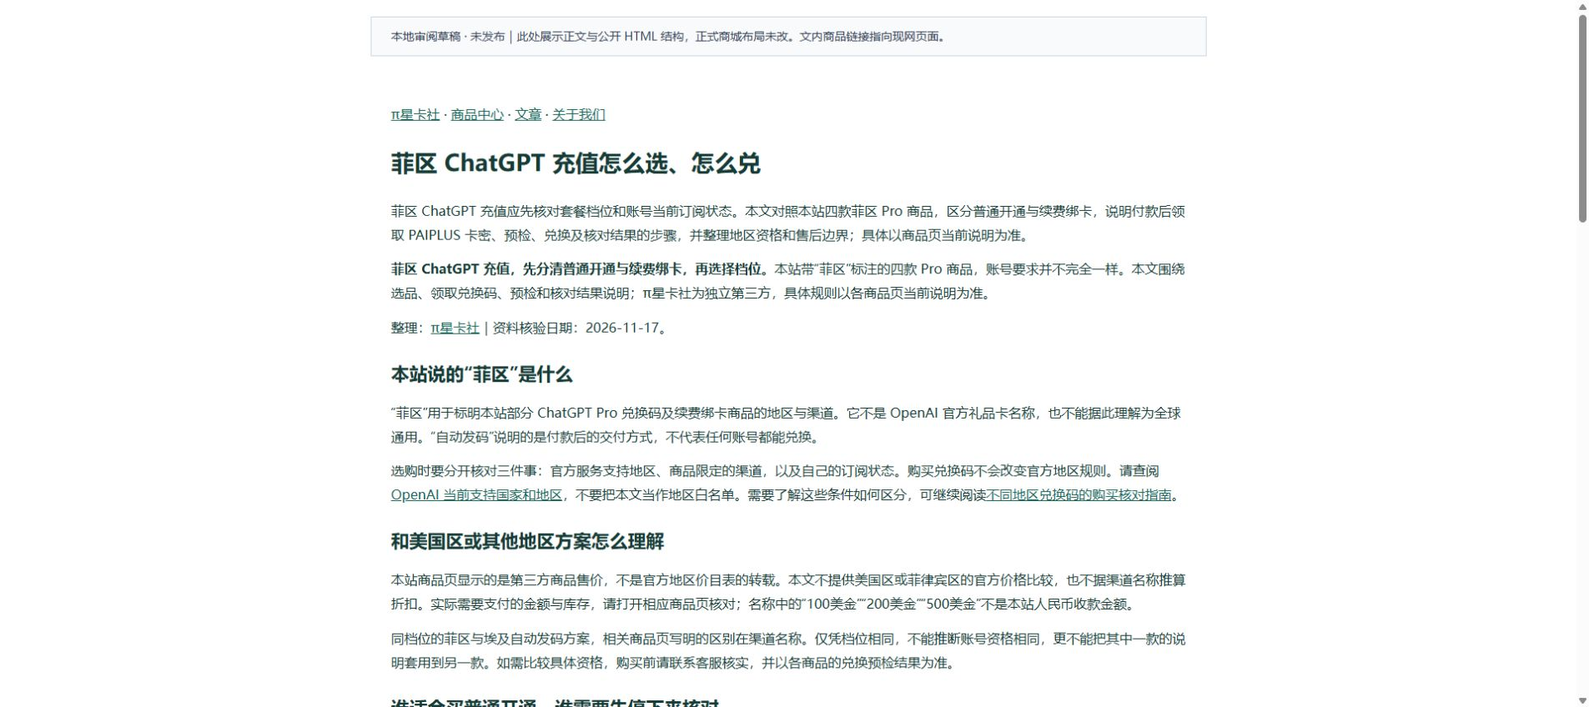
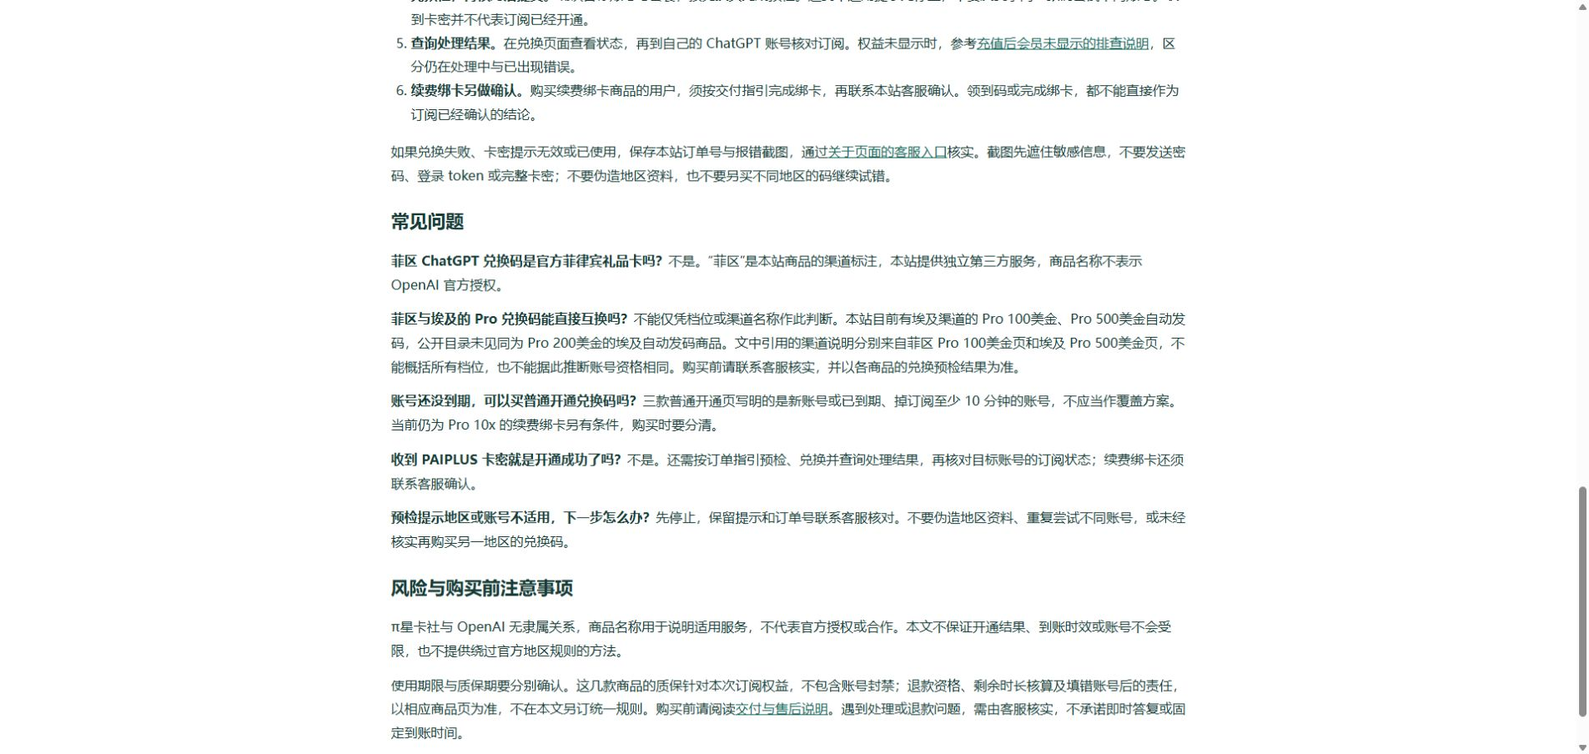
docs: 按审阅意见收窄菲区博客事实并更新验证记录

diff --git a/docs/catalog/blog-ph-chatgpt-20261117/preview.html b/docs/catalog/blog-ph-chatgpt-20261117/preview.html
@@ -24,7 +24,7 @@
 <meta content="菲区 ChatGPT 充值怎么选、怎么兑" data-public-page-seo="" name="twitter:image:alt"/>
 <script data-public-page-seo="" type="application/ld+json">{"@context":"https://schema.org","@type":"BlogPosting","description":"菲区 ChatGPT 充值应先核对套餐档位和账号当前订阅状态。本文对照本站四款菲区 Pro 商品，区分普通开通与续费绑卡，说明付款后领取 PAIPLUS 卡密、预检、兑换及核对结果的步骤，并整理地区资格和售后边界；具体以商品页当前说明为准。","headline":"菲区 ChatGPT 充值怎么选、怎么兑","inLanguage":"zh-CN","mainEntityOfPage":"https://www.qzweb.cloud/blog/chatgpt-ph-recharge-guide","publisher":{"@id":"https://www.qzweb.cloud/#organization"},"url":"https://www.qzweb.cloud/blog/chatgpt-ph-recharge-guide"}</script>
 <script data-public-page-seo="" type="application/ld+json">{"@context":"https://schema.org","@graph":[{"@id":"https://www.qzweb.cloud/#organization","@type":"Organization","contactPoint":{"@type":"ContactPoint","contactType":"customer support","url":"https://www.qzweb.cloud/about"},"name":"π星卡社","url":"https://www.qzweb.cloud/"},{"@id":"https://www.qzweb.cloud/#website","@type":"WebSite","name":"π星卡社","publisher":{"@id":"https://www.qzweb.cloud/#organization"},"url":"https://www.qzweb.cloud/"}]}</script>
-<script data-public-page-seo="" type="application/ld+json">{"@context":"https://schema.org","@graph":[{"@type":"BreadcrumbList","itemListElement":[{"@type":"ListItem","item":"https://www.qzweb.cloud/","name":"首页","position":1},{"@type":"ListItem","item":"https://www.qzweb.cloud/blog","name":"博客","position":2},{"@type":"ListItem","item":"https://www.qzweb.cloud/blog/chatgpt-ph-recharge-guide","name":"菲区 ChatGPT 充值怎么选、怎么兑","position":3}]},{"@id":"https://www.qzweb.cloud/blog/chatgpt-ph-recharge-guide#faq","@type":"FAQPage","mainEntity":[{"@type":"Question","acceptedAnswer":{"@type":"Answer","text":"不是。“菲区”是本站商品的渠道标注，本站提供独立第三方服务，商品名称不表示 OpenAI 官方授权。"},"name":"菲区 ChatGPT 兑换码是官方菲律宾礼品卡吗？"},{"@type":"Question","acceptedAnswer":{"@type":"Answer","text":"不能据档位名称推断通用。相关商品页说明渠道名称不同；账号资格需购买前联系客服核实，并分别以兑换预检结果为准。"},"name":"菲区与埃及的同档位 Pro 能直接互换吗？"},{"@type":"Question","acceptedAnswer":{"@type":"Answer","text":"三款普通开通页写明的是新账号或已到期、掉订阅至少 10 分钟的账号，不应当作覆盖方案。当前仍为 Pro 10x 的续费绑卡另有条件，购买时要分清。"},"name":"账号还没到期，可以买普通开通兑换码吗？"},{"@type":"Question","acceptedAnswer":{"@type":"Answer","text":"不是。还需按订单指引预检、兑换并查询处理结果，再核对目标账号的订阅状态；续费绑卡还须联系客服确认。"},"name":"收到 PAIPLUS 卡密就是开通成功了吗？"},{"@type":"Question","acceptedAnswer":{"@type":"Answer","text":"先停止，保留提示和订单号联系客服核对。不要伪造地区资料、重复尝试不同账号，或未经核实再购买另一地区的兑换码。"},"name":"预检提示地区或账号不适用，下一步怎么办？"}]}]}</script>
+<script data-public-page-seo="" type="application/ld+json">{"@context":"https://schema.org","@graph":[{"@type":"BreadcrumbList","itemListElement":[{"@type":"ListItem","item":"https://www.qzweb.cloud/","name":"首页","position":1},{"@type":"ListItem","item":"https://www.qzweb.cloud/blog","name":"博客","position":2},{"@type":"ListItem","item":"https://www.qzweb.cloud/blog/chatgpt-ph-recharge-guide","name":"菲区 ChatGPT 充值怎么选、怎么兑","position":3}]},{"@id":"https://www.qzweb.cloud/blog/chatgpt-ph-recharge-guide#faq","@type":"FAQPage","mainEntity":[{"@type":"Question","acceptedAnswer":{"@type":"Answer","text":"不是。“菲区”是本站商品的渠道标注，本站提供独立第三方服务，商品名称不表示 OpenAI 官方授权。"},"name":"菲区 ChatGPT 兑换码是官方菲律宾礼品卡吗？"},{"@type":"Question","acceptedAnswer":{"@type":"Answer","text":"不能仅凭档位或渠道名称作此判断。本站目前有埃及渠道的 Pro 100美金、Pro 500美金自动发码，公开目录未见同为 Pro 200美金的埃及自动发码商品。文中引用的渠道说明分别来自菲区 Pro 100美金页和埃及 Pro 500美金页，不能概括所有档位，也不能据此推断账号资格相同。购买前请联系客服核实，并以各商品的兑换预检结果为准。"},"name":"菲区与埃及的 Pro 兑换码能直接互换吗？"},{"@type":"Question","acceptedAnswer":{"@type":"Answer","text":"三款普通开通页写明的是新账号或已到期、掉订阅至少 10 分钟的账号，不应当作覆盖方案。当前仍为 Pro 10x 的续费绑卡另有条件，购买时要分清。"},"name":"账号还没到期，可以买普通开通兑换码吗？"},{"@type":"Question","acceptedAnswer":{"@type":"Answer","text":"不是。还需按订单指引预检、兑换并查询处理结果，再核对目标账号的订阅状态；续费绑卡还须联系客服确认。"},"name":"收到 PAIPLUS 卡密就是开通成功了吗？"},{"@type":"Question","acceptedAnswer":{"@type":"Answer","text":"先停止，保留提示和订单号联系客服核对。不要伪造地区资料、重复尝试不同账号，或未经核实再购买另一地区的兑换码。"},"name":"预检提示地区或账号不适用，下一步怎么办？"}]}]}</script>
 
 <style data-public-page-seo="">
 #public-document{max-width:960px;margin:32px auto;padding:24px;color:#173b36;background:#fff;font:16px/1.8 system-ui,sans-serif;overflow-wrap:anywhere}#public-document h1{font-size:28px;font-weight:700}#public-document h2{font-size:22px;font-weight:600;margin:1em 0 .5em}#public-document h3{font-size:18px;font-weight:600}#public-document a{color:#17675a;text-decoration:underline}#public-document p{margin:.8em 0}#public-document ul{list-style:disc;padding-left:24px}#public-document ol{list-style:decimal;padding-left:24px}#public-document img{max-width:100%;height:auto}#public-document .cover{max-height:240px;object-fit:contain}#public-document table{display:block;max-width:100%;overflow:auto;border-collapse:collapse}#public-document td,#public-document th{border:1px solid #bbb;padding:8px}#public-document dt{font-weight:600}#public-document dd{margin-bottom:8px}
@@ -34,17 +34,17 @@
 <nav aria-label="网站导航"><a href="/">π星卡社</a> · <a href="/products">商品中心</a> · <a href="/blog">文章</a> · <a href="/about">关于我们</a></nav>
 <article><h1>菲区 ChatGPT 充值怎么选、怎么兑</h1>
 <div class="summary">菲区 ChatGPT 充值应先核对套餐档位和账号当前订阅状态。本文对照本站四款菲区 Pro 商品，区分普通开通与续费绑卡，说明付款后领取 PAIPLUS 卡密、预检、兑换及核对结果的步骤，并整理地区资格和售后边界；具体以商品页当前说明为准。</div>
-<section aria-label="完整正文"><p><strong>菲区 ChatGPT 充值，先分清普通开通与续费绑卡，再选择档位。</strong>本站带“菲区”标注的四款 Pro 商品，账号要求并不完全一样。本文围绕选品、领取兑换码、预检和核对结果说明；π星卡社为独立第三方，具体规则以各商品页当前说明为准。</p>
+<section aria-label="完整正文"><p><strong>菲区 ChatGPT 充值要先分清：是普通开通，还是续费绑卡。</strong>本站带“菲区”标注的四款 Pro 商品，账号要求并不完全一样。π星卡社为独立第三方，具体规则以各商品页当前说明为准。</p>
 <p>整理：<a href="/about">π星卡社</a>｜资料核验日期：2026-11-17。</p>
 <h2>本站说的“菲区”是什么</h2>
 <p>“菲区”用于标明本站部分 ChatGPT Pro 兑换码及续费绑卡商品的地区与渠道。它不是 OpenAI 官方礼品卡名称，也不能据此理解为全球通用。“自动发码”说明的是付款后的交付方式，不代表任何账号都能兑换。</p>
 <p>选购时要分开核对三件事：官方服务支持地区、商品限定的渠道，以及自己的订阅状态。购买兑换码不会改变官方地区规则。请查阅<a href="https://help.openai.com/en/articles/7947663-chatgpt-supported-countries" rel="nofollow">OpenAI 当前支持国家和地区</a>，不要把本文当作地区白名单。需要了解这些条件如何区分，可继续阅读<a href="/blog/chatgpt-code-region-check">不同地区兑换码的购买核对指南</a>。</p>
 <h2>和美国区或其他地区方案怎么理解</h2>
 <p>本站商品页显示的是第三方商品售价，不是官方地区价目表的转载。本文不提供美国区或菲律宾区的官方价格比较，也不据渠道名称推算折扣。实际需要支付的金额与库存，请打开相应商品页核对；名称中的“100美金”“200美金”“500美金”不是本站人民币收款金额。</p>
-<p>同档位的菲区与埃及自动发码方案，相关商品页写明的区别在渠道名称。仅凭档位相同，不能推断账号资格相同，更不能把其中一款的说明套用到另一款。如需比较具体资格，购买前请联系客服核实，并以各商品的兑换预检结果为准。</p>
+<p>目前本站另有埃及渠道的<a href="/products/chatgpt-pro-100-egypt">Pro 100美金自动发码</a>和<a href="/products/chatgpt-pro-500-egypt">Pro 500美金自动发码</a>，没有见到同为 Pro 200美金的埃及自动发码商品。<a href="/products/chatgpt-pro-100-ph">菲区 Pro 100美金兑换码</a>页写明，同倍数的埃及方案区别在渠道名称；<a href="/products/chatgpt-pro-500-egypt">埃及 Pro 500美金兑换码</a>页写明，它与菲区 Pro 25x 的渠道名称不同。仅凭档位相近，不能推断账号资格相同，更不能把其中一款的说明套用到另一款，也不能按档位去一一配对。如需比较具体资格，购买前请联系客服核实，并以各商品的兑换预检结果为准。</p>
 <h2>谁适合买普通开通，谁需要先停下来核对</h2>
 <p>菲区 Pro 100、200、500 美金的普通开通页，共同写明适用于从未开通过会员的新账号，或原有订阅已到期、掉订阅至少 10 分钟的账号。满足文字描述后仍需预检，不能只根据自己估计的时间判定一定适用。这三款的订阅期限为一个月，具体起止以实际开通记录为准。</p>
-<p>如果当前套餐尚未到期，不要把普通自动发码理解成支持覆盖。应先看<a href="/blog/chatgpt-plus-renewal-rules">到期续费与未到期覆盖的区别</a>，再到分类页核对人工方案的适用条件；人工方案的规则不能移用到自动发码商品。</p>
+<p>如果当前套餐尚未到期，不要把普通自动发码理解成支持覆盖。应先看<a href="/blog/chatgpt-plus-renewal-rules">到期续费与未到期覆盖的区别</a>，再到<a href="/categories/gpt-recharge">ChatGPT 充值方案</a>核对是否应改选人工商品；人工方案的规则不能移用到自动发码商品。</p>
 <p>另有一款 Pro 200 美金“续费绑卡”：对象是<strong>当前仍为 Pro 10x 的自有账号</strong>。它不能套用普通开通的“新账号或已到期”条件；交付后需按指引绑卡，并联系客服确认。其他档位、已到期或状态不清楚的账号，购买前先咨询。</p>
 <h2>怎么选：四款菲区 Pro 与 Plus 的区别</h2>
 <p>可先打开<a href="/categories/gpt-recharge">ChatGPT 充值方案与购买须知</a>，按目标套餐和当前账号状态筛选，再核对商品名称。四款菲区商品可按下面的用途区分：</p>
@@ -55,10 +55,10 @@
 <tr><td><a href="/products/chatgpt-pro-200-renew-ph">菲区 Pro 200美金续费绑卡</a></td><td>针对当前仍为 Pro 10x 的账号；绑卡后联系客服确认。</td></tr>
 </tbody></table>
 <p>5x、10x、25x 是商品供货说明中的档位名称，不能仅凭数字推断官方功能或额度，也不能将 25x 换算成本站承诺的固定使用次数。需要了解具体权益差别，请在购买前联系客服核实。</p>
-<p>如果目标是 Plus，请另看<a href="/blog/chatgpt-plus-code-guide">ChatGPT Plus 兑换码使用说明</a>。本站 Plus 兑换码没有标注上述地区，不应混入这四款菲区 Pro 的选品表，也不能用 Pro 档位替代 Plus 套餐。</p>
+<p>如果目标是 Plus，请另看<a href="/products/chatgpt-plus-code">ChatGPT Plus 兑换码</a>及<a href="/blog/chatgpt-plus-code-guide">兑换码使用说明</a>。本站 Plus 兑换码没有标注菲区，不应混入这四款菲区 Pro 的选品表，也不能用 Pro 档位替代 Plus 套餐。</p>
 <h2>菲区 Pro 兑换码怎么充值：从下单到核对结果</h2>
 <ol>
-<li><strong>核对商品与账号。</strong>打开选中的商品页，逐项确认“菲区”、档位、普通开通或续费绑卡标识，再检查自己的订阅状态。不要只看金额或“有库存”就下单。</li>
+<li><strong>核对商品与账号。</strong>打开选中的商品页，逐项确认“菲区”、档位、普通开通或续费绑卡标识，再检查自己的订阅状态。不要只看金额或“有货”就下单。</li>
 <li><strong>按本站流程下单付款。</strong>售价、库存和可用付款方式以页面当时显示为准；对充值方式不熟悉，可先阅读<a href="/blog/chatgpt-payment-methods">ChatGPT 充值方式说明</a>。</li>
 <li><strong>从订单领取交付内容。</strong>付款成功后，自动发码商品发放本站 PAIPLUS 卡密。请从订单交付说明进入本站兑换中心，按该订单提供的指引操作。</li>
 <li><strong>先预检，再核对后提交。</strong>确认目标账号与套餐，按兑换页完成预检。遇到不适用提示先停止，不要反复拿同一张码尝试不同账号。收到卡密并不代表订阅已经开通。</li>
@@ -68,7 +68,7 @@
 <p>如果兑换失败、卡密提示无效或已使用，保存本站订单号与报错截图，通过<a href="/about">关于页面的客服入口</a>核实。截图先遮住敏感信息，不要发送密码、登录 token 或完整卡密；不要伪造地区资料，也不要另买不同地区的码继续试错。</p>
 <h2>常见问题</h2>
 <p><strong>菲区 ChatGPT 兑换码是官方菲律宾礼品卡吗？</strong>不是。“菲区”是本站商品的渠道标注，本站提供独立第三方服务，商品名称不表示 OpenAI 官方授权。</p>
-<p><strong>菲区与埃及的同档位 Pro 能直接互换吗？</strong>不能据档位名称推断通用。相关商品页说明渠道名称不同；账号资格需购买前联系客服核实，并分别以兑换预检结果为准。</p>
+<p><strong>菲区与埃及的 Pro 兑换码能直接互换吗？</strong>不能仅凭档位或渠道名称作此判断。本站目前有埃及渠道的 Pro 100美金、Pro 500美金自动发码，公开目录未见同为 Pro 200美金的埃及自动发码商品。文中引用的渠道说明分别来自菲区 Pro 100美金页和埃及 Pro 500美金页，不能概括所有档位，也不能据此推断账号资格相同。购买前请联系客服核实，并以各商品的兑换预检结果为准。</p>
 <p><strong>账号还没到期，可以买普通开通兑换码吗？</strong>三款普通开通页写明的是新账号或已到期、掉订阅至少 10 分钟的账号，不应当作覆盖方案。当前仍为 Pro 10x 的续费绑卡另有条件，购买时要分清。</p>
 <p><strong>收到 PAIPLUS 卡密就是开通成功了吗？</strong>不是。还需按订单指引预检、兑换并查询处理结果，再核对目标账号的订阅状态；续费绑卡还须联系客服确认。</p>
 <p><strong>预检提示地区或账号不适用，下一步怎么办？</strong>先停止，保留提示和订单号联系客服核对。不要伪造地区资料、重复尝试不同账号，或未经核实再购买另一地区的兑换码。</p>

diff --git a/docs/catalog/blog-ph-chatgpt-20261117/chatgpt-ph-recharge-guide.html b/docs/catalog/blog-ph-chatgpt-20261117/chatgpt-ph-recharge-guide.html
@@ -1,4 +1,4 @@
-<p><strong>菲区 ChatGPT 充值，先分清普通开通与续费绑卡，再选择档位。</strong>本站带“菲区”标注的四款 Pro 商品，账号要求并不完全一样。本文围绕选品、领取兑换码、预检和核对结果说明；π星卡社为独立第三方，具体规则以各商品页当前说明为准。</p>
+<p><strong>菲区 ChatGPT 充值要先分清：是普通开通，还是续费绑卡。</strong>本站带“菲区”标注的四款 Pro 商品，账号要求并不完全一样。π星卡社为独立第三方，具体规则以各商品页当前说明为准。</p>
 <p>整理：<a href="/about">π星卡社</a>｜资料核验日期：2026-11-17。</p>
 
 <h2>本站说的“菲区”是什么</h2>
@@ -7,11 +7,11 @@
 
 <h2>和美国区或其他地区方案怎么理解</h2>
 <p>本站商品页显示的是第三方商品售价，不是官方地区价目表的转载。本文不提供美国区或菲律宾区的官方价格比较，也不据渠道名称推算折扣。实际需要支付的金额与库存，请打开相应商品页核对；名称中的“100美金”“200美金”“500美金”不是本站人民币收款金额。</p>
-<p>同档位的菲区与埃及自动发码方案，相关商品页写明的区别在渠道名称。仅凭档位相同，不能推断账号资格相同，更不能把其中一款的说明套用到另一款。如需比较具体资格，购买前请联系客服核实，并以各商品的兑换预检结果为准。</p>
+<p>目前本站另有埃及渠道的<a href="/products/chatgpt-pro-100-egypt">Pro 100美金自动发码</a>和<a href="/products/chatgpt-pro-500-egypt">Pro 500美金自动发码</a>，没有见到同为 Pro 200美金的埃及自动发码商品。<a href="/products/chatgpt-pro-100-ph">菲区 Pro 100美金兑换码</a>页写明，同倍数的埃及方案区别在渠道名称；<a href="/products/chatgpt-pro-500-egypt">埃及 Pro 500美金兑换码</a>页写明，它与菲区 Pro 25x 的渠道名称不同。仅凭档位相近，不能推断账号资格相同，更不能把其中一款的说明套用到另一款，也不能按档位去一一配对。如需比较具体资格，购买前请联系客服核实，并以各商品的兑换预检结果为准。</p>
 
 <h2>谁适合买普通开通，谁需要先停下来核对</h2>
 <p>菲区 Pro 100、200、500 美金的普通开通页，共同写明适用于从未开通过会员的新账号，或原有订阅已到期、掉订阅至少 10 分钟的账号。满足文字描述后仍需预检，不能只根据自己估计的时间判定一定适用。这三款的订阅期限为一个月，具体起止以实际开通记录为准。</p>
-<p>如果当前套餐尚未到期，不要把普通自动发码理解成支持覆盖。应先看<a href="/blog/chatgpt-plus-renewal-rules">到期续费与未到期覆盖的区别</a>，再到分类页核对人工方案的适用条件；人工方案的规则不能移用到自动发码商品。</p>
+<p>如果当前套餐尚未到期，不要把普通自动发码理解成支持覆盖。应先看<a href="/blog/chatgpt-plus-renewal-rules">到期续费与未到期覆盖的区别</a>，再到<a href="/categories/gpt-recharge">ChatGPT 充值方案</a>核对是否应改选人工商品；人工方案的规则不能移用到自动发码商品。</p>
 <p>另有一款 Pro 200 美金“续费绑卡”：对象是<strong>当前仍为 Pro 10x 的自有账号</strong>。它不能套用普通开通的“新账号或已到期”条件；交付后需按指引绑卡，并联系客服确认。其他档位、已到期或状态不清楚的账号，购买前先咨询。</p>
 
 <h2>怎么选：四款菲区 Pro 与 Plus 的区别</h2>
@@ -23,11 +23,11 @@
 <tr><td><a href="/products/chatgpt-pro-200-renew-ph">菲区 Pro 200美金续费绑卡</a></td><td>针对当前仍为 Pro 10x 的账号；绑卡后联系客服确认。</td></tr>
 </tbody></table>
 <p>5x、10x、25x 是商品供货说明中的档位名称，不能仅凭数字推断官方功能或额度，也不能将 25x 换算成本站承诺的固定使用次数。需要了解具体权益差别，请在购买前联系客服核实。</p>
-<p>如果目标是 Plus，请另看<a href="/blog/chatgpt-plus-code-guide">ChatGPT Plus 兑换码使用说明</a>。本站 Plus 兑换码没有标注上述地区，不应混入这四款菲区 Pro 的选品表，也不能用 Pro 档位替代 Plus 套餐。</p>
+<p>如果目标是 Plus，请另看<a href="/products/chatgpt-plus-code">ChatGPT Plus 兑换码</a>及<a href="/blog/chatgpt-plus-code-guide">兑换码使用说明</a>。本站 Plus 兑换码没有标注菲区，不应混入这四款菲区 Pro 的选品表，也不能用 Pro 档位替代 Plus 套餐。</p>
 
 <h2>菲区 Pro 兑换码怎么充值：从下单到核对结果</h2>
 <ol>
-<li><strong>核对商品与账号。</strong>打开选中的商品页，逐项确认“菲区”、档位、普通开通或续费绑卡标识，再检查自己的订阅状态。不要只看金额或“有库存”就下单。</li>
+<li><strong>核对商品与账号。</strong>打开选中的商品页，逐项确认“菲区”、档位、普通开通或续费绑卡标识，再检查自己的订阅状态。不要只看金额或“有货”就下单。</li>
 <li><strong>按本站流程下单付款。</strong>售价、库存和可用付款方式以页面当时显示为准；对充值方式不熟悉，可先阅读<a href="/blog/chatgpt-payment-methods">ChatGPT 充值方式说明</a>。</li>
 <li><strong>从订单领取交付内容。</strong>付款成功后，自动发码商品发放本站 PAIPLUS 卡密。请从订单交付说明进入本站兑换中心，按该订单提供的指引操作。</li>
 <li><strong>先预检，再核对后提交。</strong>确认目标账号与套餐，按兑换页完成预检。遇到不适用提示先停止，不要反复拿同一张码尝试不同账号。收到卡密并不代表订阅已经开通。</li>
@@ -38,7 +38,7 @@
 
 <h2>常见问题</h2>
 <p><strong>菲区 ChatGPT 兑换码是官方菲律宾礼品卡吗？</strong>不是。“菲区”是本站商品的渠道标注，本站提供独立第三方服务，商品名称不表示 OpenAI 官方授权。</p>
-<p><strong>菲区与埃及的同档位 Pro 能直接互换吗？</strong>不能据档位名称推断通用。相关商品页说明渠道名称不同；账号资格需购买前联系客服核实，并分别以兑换预检结果为准。</p>
+<p><strong>菲区与埃及的 Pro 兑换码能直接互换吗？</strong>不能仅凭档位或渠道名称作此判断。本站目前有埃及渠道的 Pro 100美金、Pro 500美金自动发码，公开目录未见同为 Pro 200美金的埃及自动发码商品。文中引用的渠道说明分别来自菲区 Pro 100美金页和埃及 Pro 500美金页，不能概括所有档位，也不能据此推断账号资格相同。购买前请联系客服核实，并以各商品的兑换预检结果为准。</p>
 <p><strong>账号还没到期，可以买普通开通兑换码吗？</strong>三款普通开通页写明的是新账号或已到期、掉订阅至少 10 分钟的账号，不应当作覆盖方案。当前仍为 Pro 10x 的续费绑卡另有条件，购买时要分清。</p>
 <p><strong>收到 PAIPLUS 卡密就是开通成功了吗？</strong>不是。还需按订单指引预检、兑换并查询处理结果，再核对目标账号的订阅状态；续费绑卡还须联系客服确认。</p>
 <p><strong>预检提示地区或账号不适用，下一步怎么办？</strong>先停止，保留提示和订单号联系客服核对。不要伪造地区资料、重复尝试不同账号，或未经核实再购买另一地区的兑换码。</p>

diff --git a/docs/catalog/blog-ph-chatgpt-20261117/README.md b/docs/catalog/blog-ph-chatgpt-20261117/README.md
@@ -1,8 +1,8 @@
 # 菲区 ChatGPT 博客草稿审阅
 
-本目录仅为第一阶段审阅稿，未发布。标题为「菲区 ChatGPT 充值怎么选、怎么兑」，拟用地址为 `/blog/chatgpt-ph-recharge-guide`。
+本目录为按 Grok 审阅意见修订后的第一阶段草稿，未发布。标题为「菲区 ChatGPT 充值怎么选、怎么兑」，拟用地址为 `/blog/chatgpt-ph-recharge-guide`。
 
-分支：`codex/blog-ph-chatgpt-20261117`。基线与完成本地验证时核对的 `origin/main` 均为 `7276bac1c0f350dd605062e1ba0dd15ece7786a8`。店主随后授权将草稿和验证记录提交推送至该独立分支供 Grok 审核，明确不合并、不上线；实际提交以本分支 Git 历史为准。
+分支：`codex/blog-ph-chatgpt-20261117`。基线与完成本地验证时核对的 `origin/main` 均为 `7276bac1c0f350dd605062e1ba0dd15ece7786a8`。初稿已提交推送为 `57d04fae459c4f0dcfffe7514e824e619be804a8`；本次修订基于该提交。店主已授权将修订后的草稿、预览与验证记录提交推送到本审阅分支，仍不合并或上线；当前提交以分支 Git 历史为准。
 
 ## 直接阅读与预览
 
@@ -10,7 +10,7 @@
 - [可直接用浏览器打开的预览](preview.html)：无需数据库、账号或构建，也可双击文件打开。
 - [正文 HTML](chatgpt-ph-recharge-guide.html)：拟存入文章正文的内容，不包含本地审阅提示。
 - [草稿清单](catalog.json)：标题、摘要、slug、中文正文文件、未发布状态及可选商品关联候选。
-- [事实出处](sources.json)、[内容与结构验证](validation.json)、[站内链接检查](link-checks.json)。
+- [事实出处](sources.json)、[本次事实收窄核验](review-fact-checks.json)、[内容与结构验证](validation.json)、[站内链接检查](link-checks.json)。
 
 本地验收时使用的临时预览为 <http://127.0.0.1:5197/preview.html>，仅绑定本机，计划于 2026-11-17 17:04（北京时间）自动停止。异地审阅请直接阅读本分支的 Markdown，或下载本目录后用浏览器打开 `preview.html`；本机地址不是已上线网址。
 
@@ -18,9 +18,9 @@
 
 ## 内容与事实边界
 
-正文为 **2,011 个可见汉字**，包含标点、英文等的非空白字符共 2,474 个；摘要为 89 个汉字。包含 7 个 H2 小节、四款商品的对照表、6 步兑换说明与 5 条 FAQ。
+正文为 **2,130 个可见汉字**，包含标点、英文等的非空白字符共 2,673 个；摘要为 89 个汉字。包含 7 个 H2 小节、四款商品的对照表、6 步兑换说明与 5 条 FAQ。
 
-四款菲区 Pro 均有独立链接，明确区分普通开通与续费绑卡；另链接 GPT 充值分类页、Plus 兑换说明、地区核对、续费、故障排查、交付售后和关于页。12 个不同的站内链接均实测 HTTP 200、无跳转且 canonical 与链接一致。
+四款菲区 Pro 均有独立链接，明确区分普通开通与续费绑卡；另链接 GPT 充值分类页、Plus 兑换说明、地区核对、续费、故障排查、交付售后和关于页。15 个不同的站内链接均实测 HTTP 200、无跳转且 canonical 与链接一致。
 
 Plus 仅单独说明，不归为菲区商品。按店主明确要求省略账号售卖相关关键词及 FAQ。没有填写官方美区/菲区价格、折扣、固定人民币售价或库存承诺；没有扩展商品未说明的资格、退款规则或开通保证。现有页面没有依据的比较已省略，正文没有事实占位项。
 
@@ -31,7 +31,7 @@ Plus 仅单独说明，不归为菲区商品。按店主明确要求省略账号
 - 使用当前仓库真实 `publicpage` 渲染器与内存草稿数据生成预览，没有启动业务后端或写入 SQLite。
 - 自动生成一份 `BlogPosting`、一份 `BreadcrumbList` 和一份 `FAQPage`；5 条结构化问答与可见正文逐条一致，没有叠加 Product 或重复 Article。
 - HTML 与 Markdown 的全部可见正文、所有链接逐项一致；预览中的正文与原始 HTML 一致。
-- 标题、摘要、规范 URL、默认 1200×630 分享图符合草稿清单。未添加新媒体。
+- 标题、摘要、规范 URL、默认 1200×630 分享图符合草稿清单。未新增正文插图或分享图。
 - 浏览器实际打开预览，标题、7 个小节、4 行商品对照表和全文正常；所测桌面视口无横向溢出，未捕获控制台警告或错误。
 - 预览有 `noindex, follow`，正式发布日期留空；这是未发布草稿的状态，不能直接把预览文件作为生产页面部署。
 - 只读核对时，拟用线上 HTML 地址返回 HTTP 404。对应公开 API 的 HTTP 状态为 200，JSON 业务状态为 404、表示文章不存在，不能误报为 API HTTP 404。公开不存在也不能排除后台同名草稿，正式发布前仍要核对 slug 唯一性。
@@ -50,8 +50,17 @@ Plus 仅单独说明，不归为菲区商品。按店主明确要求省略账号
 
 发布获批后才准备已审阅的内容事务、真实发布日期、`blogSlugs` 与作者信息，以及获批的商品关联或回链；随后核对正式正文、结构化数据和 sitemap，再按授权申请索引。`catalog.json` 是本次草稿清单，不是可直接交给旧内容迁移脚本执行的生产载荷。现在到第一阶段为止，不执行发布步骤。
 
-## 验收快照说明
+## 本次修订与验收记录
 
-`validation.json` 的 Git 状态字段保留本地验证完成时的快照，`commit_created: false`、`pushed: false` 不表示本分支当前未提交。正文、摘要、HTML/Markdown 和 FAQ 内容没有因送审归档而重写；本次补充截图并更新审阅说明和文件指纹。12 条链接的 HTTP 记录是文件中标明时间的实测结果，不是永久状态保证。原始环境日志留在本机，供公开审阅的结果、失败说明和指纹均在本目录。
+依据 [Grok 审阅稿](https://drive.google.com/file/d/1XQpZOtSGpH9rJclSMOFIOY6g5LAnqKJb/view) 和店主随后明确列出的修改要求，仅调整 6 个原有正文区块，未重写全文；标题、slug、摘要及发布开关不变。
 
-![本地正文审阅预览](preview-desktop.jpg)
+- 地区比较段列出埃及 Pro 100、500 的现有入口，说明核验时未见埃及 Pro 200；渠道说明分别注明菲区 Pro 100 与埃及 Pro 500 的来源，不一一配对、不推断资格一致。
+- FAQ 移除“同档位”的泛化，以“不能仅凭档位或渠道名称作此判断”回应互换问题。审阅全文中直接回答“不能”的一句改为这一限定表达，避免新增未经核实的绝对结论。
+- 给“再到 ChatGPT 充值方案”补分类页链接，Plus 补商品入口并直说未标注菲区；购买步骤改用“有货”，首段去掉与摘要重复的说明。
+- HTML、Markdown、预览、5 条 FAQPage 问答及截图同步更新；没有新增账号售卖 FAQ，也没有修改既有文章、商品或应用源码。
+
+原稿的技术结构检查没有发现事实引用范围过宽的问题，本次依据审阅更正；此前结果和失败说明保留于 Git 历史与 `validation.json` 的历史记录。本次实际公开页面核验见 `review-fact-checks.json`，15 条链接是各记录时间的实测结果。`validation.json` 中 `revision_commit_created_at_validation`、`revision_pushed_at_validation` 保留本地验证完成时的状态，不代表本分支当前是否已推送。送审归档没有再修改正文，实际提交和推送情况以 Git 历史为准。
+
+以下截图展示已收窄的 FAQ；完整内容以 Markdown/HTML 和本地预览为准。
+
+![修订后的 FAQ 本地预览](preview-desktop.jpg)

diff --git a/docs/catalog/blog-ph-chatgpt-20261117/chatgpt-ph-recharge-guide.md b/docs/catalog/blog-ph-chatgpt-20261117/chatgpt-ph-recharge-guide.md
@@ -4,7 +4,7 @@
 
 ---
 
-**菲区 ChatGPT 充值，先分清普通开通与续费绑卡，再选择档位。**本站带“菲区”标注的四款 Pro 商品，账号要求并不完全一样。本文围绕选品、领取兑换码、预检和核对结果说明；π星卡社为独立第三方，具体规则以各商品页当前说明为准。
+**菲区 ChatGPT 充值要先分清：是普通开通，还是续费绑卡。**本站带“菲区”标注的四款 Pro 商品，账号要求并不完全一样。π星卡社为独立第三方，具体规则以各商品页当前说明为准。
 
 整理：[π星卡社](https://www.qzweb.cloud/about)｜资料核验日期：2026-11-17。
 
@@ -18,13 +18,13 @@
 
 本站商品页显示的是第三方商品售价，不是官方地区价目表的转载。本文不提供美国区或菲律宾区的官方价格比较，也不据渠道名称推算折扣。实际需要支付的金额与库存，请打开相应商品页核对；名称中的“100美金”“200美金”“500美金”不是本站人民币收款金额。
 
-同档位的菲区与埃及自动发码方案，相关商品页写明的区别在渠道名称。仅凭档位相同，不能推断账号资格相同，更不能把其中一款的说明套用到另一款。如需比较具体资格，购买前请联系客服核实，并以各商品的兑换预检结果为准。
+目前本站另有埃及渠道的[Pro 100美金自动发码](https://www.qzweb.cloud/products/chatgpt-pro-100-egypt)和[Pro 500美金自动发码](https://www.qzweb.cloud/products/chatgpt-pro-500-egypt)，没有见到同为 Pro 200美金的埃及自动发码商品。[菲区 Pro 100美金兑换码](https://www.qzweb.cloud/products/chatgpt-pro-100-ph)页写明，同倍数的埃及方案区别在渠道名称；[埃及 Pro 500美金兑换码](https://www.qzweb.cloud/products/chatgpt-pro-500-egypt)页写明，它与菲区 Pro 25x 的渠道名称不同。仅凭档位相近，不能推断账号资格相同，更不能把其中一款的说明套用到另一款，也不能按档位去一一配对。如需比较具体资格，购买前请联系客服核实，并以各商品的兑换预检结果为准。
 
 ## 谁适合买普通开通，谁需要先停下来核对
 
 菲区 Pro 100、200、500 美金的普通开通页，共同写明适用于从未开通过会员的新账号，或原有订阅已到期、掉订阅至少 10 分钟的账号。满足文字描述后仍需预检，不能只根据自己估计的时间判定一定适用。这三款的订阅期限为一个月，具体起止以实际开通记录为准。
 
-如果当前套餐尚未到期，不要把普通自动发码理解成支持覆盖。应先看[到期续费与未到期覆盖的区别](https://www.qzweb.cloud/blog/chatgpt-plus-renewal-rules)，再到分类页核对人工方案的适用条件；人工方案的规则不能移用到自动发码商品。
+如果当前套餐尚未到期，不要把普通自动发码理解成支持覆盖。应先看[到期续费与未到期覆盖的区别](https://www.qzweb.cloud/blog/chatgpt-plus-renewal-rules)，再到[ChatGPT 充值方案](https://www.qzweb.cloud/categories/gpt-recharge)核对是否应改选人工商品；人工方案的规则不能移用到自动发码商品。
 
 另有一款 Pro 200 美金“续费绑卡”：对象是**当前仍为 Pro 10x 的自有账号**。它不能套用普通开通的“新账号或已到期”条件；交付后需按指引绑卡，并联系客服确认。其他档位、已到期或状态不清楚的账号，购买前先咨询。
 
@@ -41,11 +41,11 @@
 
 5x、10x、25x 是商品供货说明中的档位名称，不能仅凭数字推断官方功能或额度，也不能将 25x 换算成本站承诺的固定使用次数。需要了解具体权益差别，请在购买前联系客服核实。
 
-如果目标是 Plus，请另看[ChatGPT Plus 兑换码使用说明](https://www.qzweb.cloud/blog/chatgpt-plus-code-guide)。本站 Plus 兑换码没有标注上述地区，不应混入这四款菲区 Pro 的选品表，也不能用 Pro 档位替代 Plus 套餐。
+如果目标是 Plus，请另看[ChatGPT Plus 兑换码](https://www.qzweb.cloud/products/chatgpt-plus-code)及[兑换码使用说明](https://www.qzweb.cloud/blog/chatgpt-plus-code-guide)。本站 Plus 兑换码没有标注菲区，不应混入这四款菲区 Pro 的选品表，也不能用 Pro 档位替代 Plus 套餐。
 
 ## 菲区 Pro 兑换码怎么充值：从下单到核对结果
 
-1. **核对商品与账号。**打开选中的商品页，逐项确认“菲区”、档位、普通开通或续费绑卡标识，再检查自己的订阅状态。不要只看金额或“有库存”就下单。
+1. **核对商品与账号。**打开选中的商品页，逐项确认“菲区”、档位、普通开通或续费绑卡标识，再检查自己的订阅状态。不要只看金额或“有货”就下单。
 2. **按本站流程下单付款。**售价、库存和可用付款方式以页面当时显示为准；对充值方式不熟悉，可先阅读[ChatGPT 充值方式说明](https://www.qzweb.cloud/blog/chatgpt-payment-methods)。
 3. **从订单领取交付内容。**付款成功后，自动发码商品发放本站 PAIPLUS 卡密。请从订单交付说明进入本站兑换中心，按该订单提供的指引操作。
 4. **先预检，再核对后提交。**确认目标账号与套餐，按兑换页完成预检。遇到不适用提示先停止，不要反复拿同一张码尝试不同账号。收到卡密并不代表订阅已经开通。
@@ -58,7 +58,7 @@
 
 **菲区 ChatGPT 兑换码是官方菲律宾礼品卡吗？**不是。“菲区”是本站商品的渠道标注，本站提供独立第三方服务，商品名称不表示 OpenAI 官方授权。
 
-**菲区与埃及的同档位 Pro 能直接互换吗？**不能据档位名称推断通用。相关商品页说明渠道名称不同；账号资格需购买前联系客服核实，并分别以兑换预检结果为准。
+**菲区与埃及的 Pro 兑换码能直接互换吗？**不能仅凭档位或渠道名称作此判断。本站目前有埃及渠道的 Pro 100美金、Pro 500美金自动发码，公开目录未见同为 Pro 200美金的埃及自动发码商品。文中引用的渠道说明分别来自菲区 Pro 100美金页和埃及 Pro 500美金页，不能概括所有档位，也不能据此推断账号资格相同。购买前请联系客服核实，并以各商品的兑换预检结果为准。
 
 **账号还没到期，可以买普通开通兑换码吗？**三款普通开通页写明的是新账号或已到期、掉订阅至少 10 分钟的账号，不应当作覆盖方案。当前仍为 Pro 10x 的续费绑卡另有条件，购买时要分清。
 
